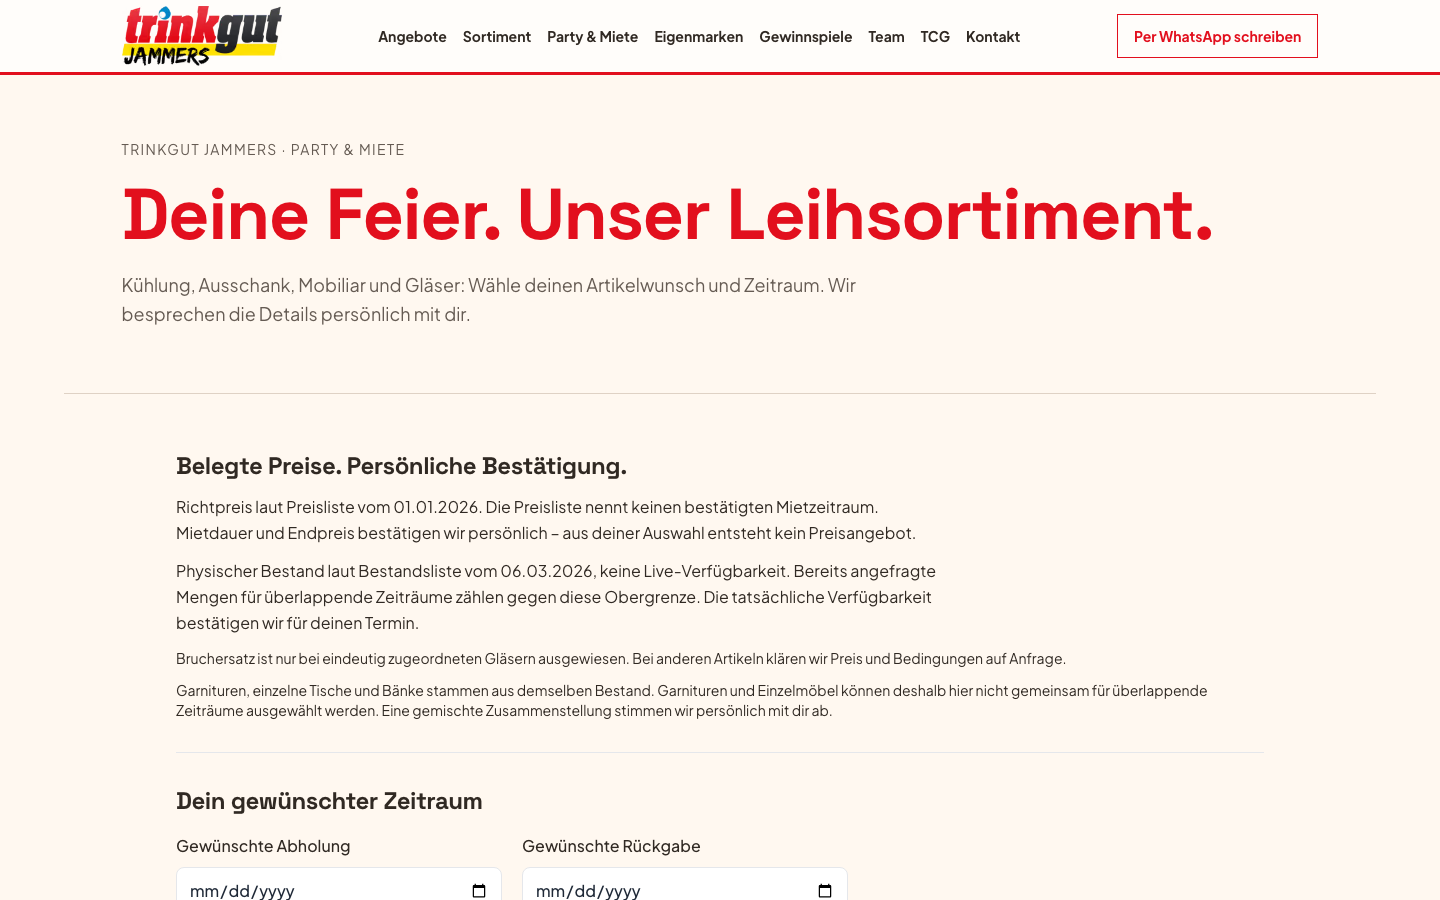
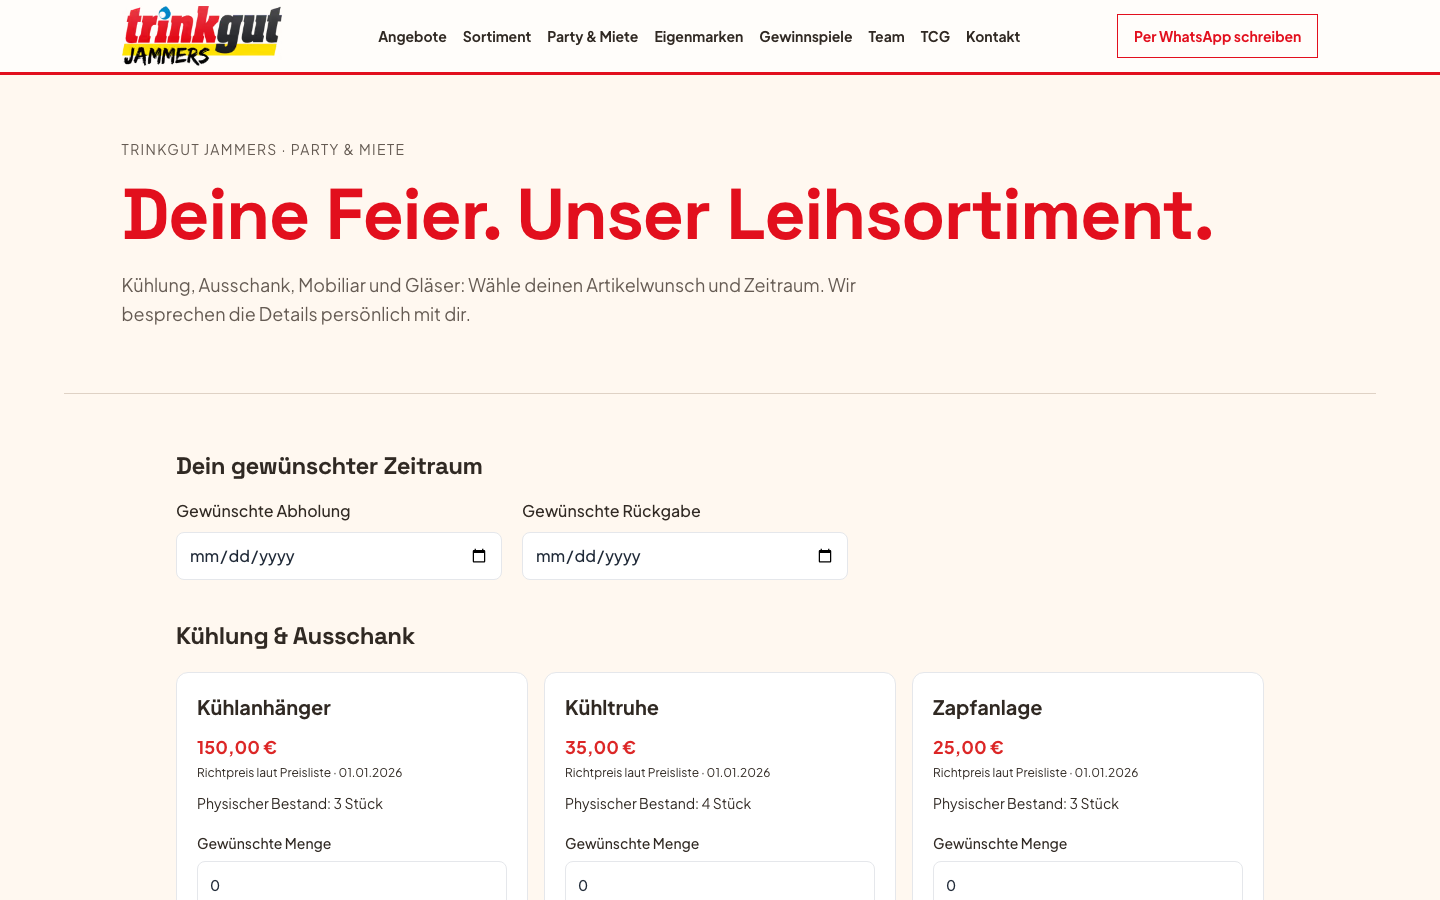
Remove long rental explanation block without changing inquiry logic

diff --git a/lib/__tests__/rental-page.test.tsx b/lib/__tests__/rental-page.test.tsx
@@ -5,13 +5,12 @@ import RentalPage from "@/app/vermietung/page";
 
 describe("source-backed rental catalog", () => {
   const html = () => renderToStaticMarkup(<CartProvider><RentalPage /></CartProvider>);
-  it("renders every physical source item with its dated stock limit", () => {
+  it("renders every physical source item with its stock limit", () => {
     const result = html();
     for (const [name,stock] of [["Kühlanhänger",3],["Kühltruhe",4],["Stehtisch",20],["Zapfanlage",3],["Tisch einzeln",13],["Bank einzeln",44],["Bierzeltgarnitur",13],["Theke",2],["Spültheke",2],["Tablett",3],["Glühweinkocher",2],["Bierpongtisch",1],["Weinglas",124],["Weinglas klein",33],["Sektglas",226],["Altbierglas",402],["Williglas",299],["Kölschglas",58],["Schnapsglas",177],["Weißbierglas",23]] as const) {
       expect(result).toContain(`aria-label="Menge für ${name}"`);
       expect(result).toContain(`data-rental-name="${name}" data-physical-stock="${stock}"`);
     }
-    expect(result).toContain("06.03.2026");
     expect(result).toContain("01.01.2026");
   });
   it("does not invent rental periods, source mappings, photos, or purchase rentals", () => {
@@ -19,9 +18,22 @@ describe("source-backed rental catalog", () => {
     expect(result).toContain("Richtpreis laut Preisliste");
     expect(result).toContain("Preis auf Anfrage");
     expect(result).toContain("Bruchersatz");
-    expect(result).toContain("Mietdauer und Endpreis bestätigen wir persönlich");
+    expect(result).toContain("Unverbindlich anfragen");
+    expect(result).toContain("Keine Reservierungsbestätigung und kein berechneter Mietgesamtpreis.");
     expect(result).not.toMatch(/3 Werktage|Leihperiode|Kühlwagen|Entlüfter|Zapfhahn|<svg|<img/);
     expect(result).not.toContain("Kaution");
+  });
+  it("lets visitors choose dates directly without the removed long conditions block", () => {
+    const result = html();
+    expect(result).toContain("Dein gewünschter Zeitraum");
+    expect(result).toContain("Gewünschte Abholung");
+    expect(result).toContain("Gewünschte Rückgabe");
+    expect(result).not.toContain('aria-labelledby="rental-conditions"');
+    expect(result).not.toContain("Belegte Preise. Persönliche Bestätigung.");
+    expect(result).not.toContain("Die Preisliste nennt keinen bestätigten Mietzeitraum.");
+    expect(result).not.toContain("Bereits angefragte Mengen für überlappende Zeiträume");
+    expect(result).not.toContain("Bruchersatz ist nur bei eindeutig zugeordneten Gläsern");
+    expect(result).not.toContain("Garnituren und Einzelmöbel können deshalb hier nicht gemeinsam");
   });
   it("shows only clearly matched prices from the price sheet", () => {
     const result=html();

diff --git a/app/vermietung/page.tsx b/app/vermietung/page.tsx
@@ -42,14 +42,6 @@ export default function VermietungPage() {
       </section>
 
       <div className="max-w-6xl mx-auto px-5 sm:px-8 py-10 md:py-14">
-        <section aria-labelledby="rental-conditions" className="border-b border-border pb-8 mb-8">
-          <h2 id="rental-conditions" className="text-2xl font-bold mb-3">Belegte Preise. Persönliche Bestätigung.</h2>
-          <p className="max-w-3xl leading-relaxed">Richtpreis laut Preisliste vom 01.01.2026. Die Preisliste nennt keinen bestätigten Mietzeitraum. Mietdauer und Endpreis bestätigen wir persönlich – aus deiner Auswahl entsteht kein Preisangebot.</p>
-          <p className="max-w-3xl leading-relaxed mt-3">Physischer Bestand laut Bestandsliste vom 06.03.2026, keine Live-Verfügbarkeit. Bereits angefragte Mengen für überlappende Zeiträume zählen gegen diese Obergrenze. Die tatsächliche Verfügbarkeit bestätigen wir für deinen Termin.</p>
-          <p className="text-sm mt-3">Bruchersatz ist nur bei eindeutig zugeordneten Gläsern ausgewiesen. Bei anderen Artikeln klären wir Preis und Bedingungen auf Anfrage.</p>
-          <p className="text-sm mt-3" data-shared-furniture>Garnituren, einzelne Tische und Bänke stammen aus demselben Bestand. Garnituren und Einzelmöbel können deshalb hier nicht gemeinsam für überlappende Zeiträume ausgewählt werden. Eine gemischte Zusammenstellung stimmen wir persönlich mit dir ab.</p>
-        </section>
-
         <section aria-labelledby="rental-dates" className="mb-10">
           <h2 id="rental-dates" className="text-2xl font-bold mb-4">Dein gewünschter Zeitraum</h2>
           <div className="grid sm:grid-cols-2 gap-5 max-w-2xl">

diff --git a/e2e/public-route-consistency.spec.ts b/e2e/public-route-consistency.spec.ts
@@ -13,7 +13,9 @@ test("community has one shared main landmark without a nested legacy main", asyn
 test("shared furniture selection cannot reserve bundles and single items on overlapping dates", async ({ page }) => {
   await page.goto("/vermietung");
   await page.waitForLoadState("networkidle");
-  await expect(page.locator("[data-shared-furniture]")).toBeVisible();
+  await expect(page.getByRole("heading", { name: "Belegte Preise. Persönliche Bestätigung.", exact: true })).toHaveCount(0);
+  await expect(page.locator('[aria-labelledby="rental-conditions"]')).toHaveCount(0);
+  await expect(page.getByRole("heading", { name: "Dein gewünschter Zeitraum", exact: true })).toBeVisible();
   await page.getByLabel("Gewünschte Abholung", { exact: true }).fill("2026-10-05");
   await page.getByLabel("Gewünschte Rückgabe", { exact: true }).fill("2026-10-07");
   const table = page.getByRole("spinbutton", { name: "Menge für Tisch einzeln", exact: true });

diff --git a/docs/audits/2026-09-30-rental-copy-removal.md b/docs/audits/2026-09-30-rental-copy-removal.md
@@ -1,0 +1,9 @@
+# Rental-page copy removal — 30 September 2026
+
+Removed the entire “Belegte Preise. Persönliche Bestätigung.” section and its four paragraphs at the operator's request. The page now proceeds from its introduction directly to the requested dates. No replacement explanation block was added.
+
+The 20 items, per-card prices/stock labels, date selection and inquiry controls remain unchanged. Existing short nonbinding/personal-confirmation notices remain where they already appeared. Stock caps, shared-furniture exclusions, date validation and cart restoration were not changed. The inventory date no longer appears in the removed section, but source metadata remains intact.
+
+Verification: the new removal assertion failed against the previous rendered page, then the full unit suite passed (48 files, 498 tests). TypeScript and the production build passed. Five targeted browser tests passed against the rebuilt preview, covering desktop/mobile layout, accessibility/runtime checks, overlapping stock, shared furniture and restored cart data. A manual HTTP 200 HTML check confirmed the removed text is absent while date controls, all 20 items and the inquiry section remain. Desktop/mobile first-view screenshots were visually checked. A read-only scope audit found no dependent anchors or styling consumers. `git diff --check` passed.
+
+Local previews were restarted on ports 3000 and 3103. No public-domain deployment or external inquiry transmission was performed by this task.
